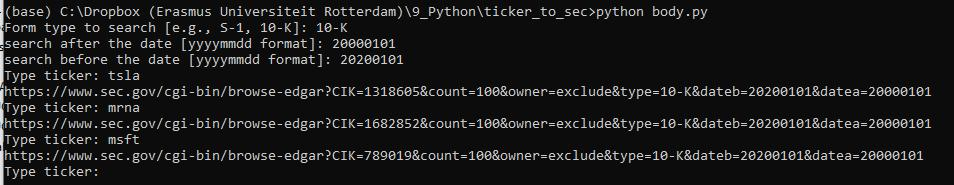
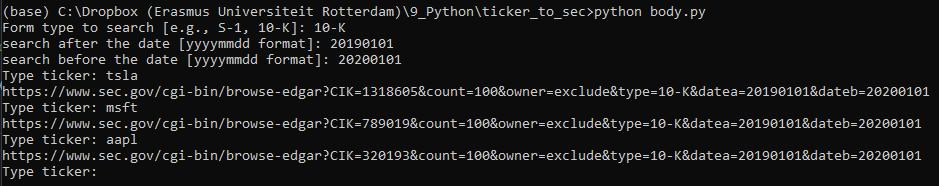
minor changes.

Changed region(s): [[0.0, 0.0, 0.9883, 1.0]]

diff --git a/body.py b/body.py
@@ -16,7 +16,7 @@ while ticker!="":
     ticker= input("Type ticker: ")
 
     # get url
-    url= ticker_to_sec(ticker) + f"&type={form_type}" + f"&dateb={dateb}" + f"&datea={datea}"
+    url= ticker_to_sec(ticker) + f"&type={form_type}" + f"&datea={datea}" + f"&dateb={dateb}"
 
     # print url
     print(url)
